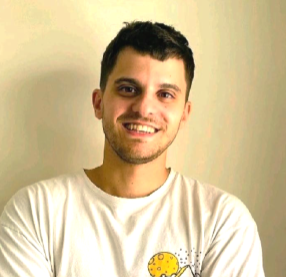
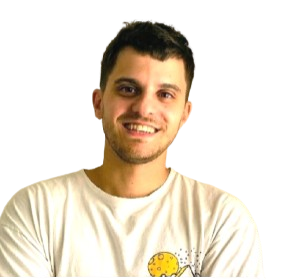
Remove bg teamWork images

diff --git a/src/utils/constants.js b/src/utils/constants.js
@@ -190,30 +190,30 @@ export const awards = [
 export const teamWork = [
   {
     id: 1,
+    name: 'Diana Osorio',
+    teamRole: 'Directora ejecutiva',
+    image: '/teamWork/diana-osorio.png',
+    socialLink: 'https://www.linkedin.com/in/diana-osorio-rojas-/',
+  },
+  {
+    id: 2,
     name: 'Javier de la Calle',
     teamRole: 'Director institucional',
     image: '/teamWork/javier-de-la-calle.png',
     socialLink: 'https://www.linkedin.com/in/javierleandrodelacalle/',
   },
   {
-    id: 2,
+    id: 3,
     name: 'Veronica Heredia',
     teamRole: 'Responsable de inserción laboral',
     image: '/teamWork/vero-heredia.png',
     socialLink: 'https://www.linkedin.com/in/veronica-heredia-valderrama/',
   },
   {
-    id: 3,
-    name: 'Diana Osorio',
-    teamRole: 'Directora ejecutiva',
-    image: '/teamWork/diana-osorio.jpg',
-    socialLink: 'https://www.linkedin.com/in/diana-osorio-rojas-/',
-  },
-  {
     id: 4,
     name: 'Macarena Galardi',
     teamRole: 'Ventas',
-    image: '/teamWork/macarena-galardi.jpg',
+    image: '/teamWork/macarena-galardi.png',
     socialLink: 'https://www.linkedin.com/in/macarena-galardi-4a5303213/',
   },
   {
@@ -222,12 +222,5 @@ export const teamWork = [
     teamRole: 'Bienestar de Alumnas',
     image: '/teamWork/deborah-soto.png',
     socialLink: 'https://www.linkedin.com/in/deborahcarolinasoto/',
-  },
-  {
-    id: 6,
-    name: 'Matias Arno',
-    teamRole: 'Coordinador académico',
-    image: '/teamWork/matias-arno.jpg',
-    socialLink: 'https://www.linkedin.com/in/matias-agustin-arno-9b8526a6/',
   },
 ]

diff --git a/src/pages/AboutUs.jsx b/src/pages/AboutUs.jsx
@@ -1,7 +1,7 @@
 import { Container, Show } from '@chakra-ui/react'
 
 import { AboutUsSection } from '../components/about-us/AboutUsSection'
-import { BlogComponent } from '../components/about-us/BlogComponent'
+// import { BlogComponent } from '../components/about-us/BlogComponent'
 import { OurStory } from '../components/about-us/OurStory'
 import { PaymentOptions } from '../components/about-us/PaymentOptions'
 import { SupportUs } from '../components/about-us/SupportUs'
@@ -20,7 +20,7 @@ export const AboutUs = () => {
       <OurStory />
       <TeamWork />
       <Testimonials />
-      <BlogComponent />
+      {/* <BlogComponent /> */}
       <PaymentOptions />
       <SupportUs />
       <CivicHouseShowcase />
